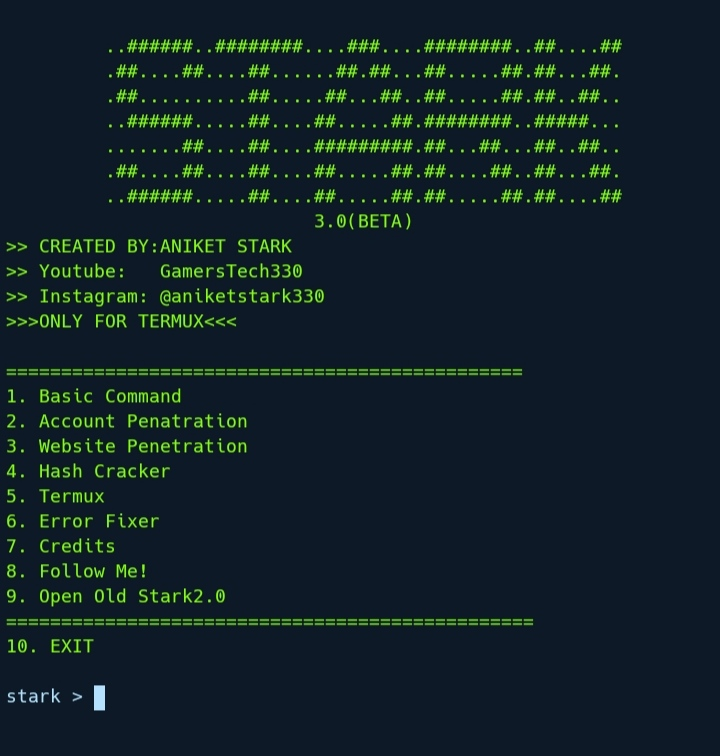
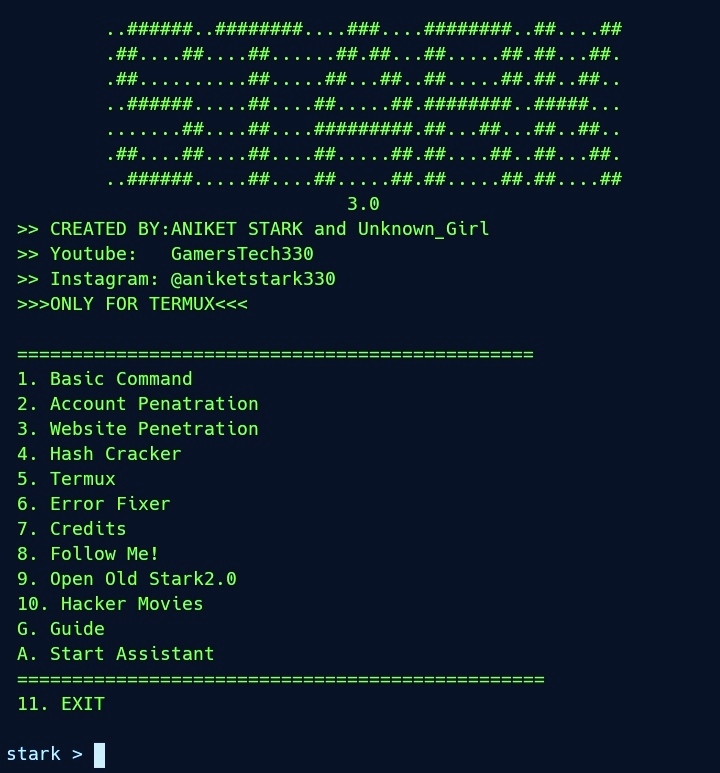
added Guide Section

Changed region(s): [[0.0, 0.0304, 0.8861, 1.0], [0.0, 0.9735, 0.0917, 1.0]]

diff --git a/core/starkmcore.py b/core/starkmcore.py
@@ -337,9 +337,10 @@ def Termux():
   3. ohmyzsh	     (new look for termux)
   4. TBomb           (SMS AND CALL SPAM)
   5. LazyMeta	     (Payload Maker Tool)
-  6. Install Nethunter Termux""","green"), colored("""
+  6. Install Nethunter Termux
+  7. Install/Update Termux Packages""","green"), colored("""
   ==========================================""","cyan"), colored("""
-  7. Back""","green"), colored("""
+  8. Back""","green"), colored("""
   ==========================================""","cyan")
  term = raw_input("term > ")
  if term == "1":
@@ -361,8 +362,11 @@ def Termux():
  elif term == "6":
   os.system("cd && wget -O install-nethunter-termux https://offs.ec/2MceZWr && chmod +x install-nethunter-termux")
   printslow(colored("Now Run Following Command\n cd && ./install-nethunter-termux",'green'))
-
-###################Error Fixer
+ elif term == "7":
+  os.system("apt install -y python python2 wget curl php python3 clang git curl zip pv tar termux-api")
+ elif term == "8":
+  reset()
+###################Error Fixe
 
 def EFixer():
  os.system("clear")

diff --git a/stark.py b/stark.py
@@ -35,6 +35,7 @@ def menu():
  9. Open Old Stark2.0
  10. Hacker Movies
  G. Guide
+ A. Start Assistant
  ================================================
  11. EXIT
  """, 'green'))
@@ -83,6 +84,8 @@ while loop:
           reset()
     elif stark == "G" or stark == "g":
         guidemain()
+    elif stark == "A" or stark == "a":
+	 os.system("echo This Is Under Built Me And Unknown_Girl404 Working On It | lolcat -a -d 80")
     else:
                   print  (colored("ERROR: WRONG COMMAND BRO.?", 'red'))
                   timeout(2)

diff --git a/core/aimcore.py b/core/aimcore.py
@@ -1,0 +1,7 @@
+import os
+import sys
+import time
+from termcolor import colored
+from core.starkmcore import *
+import random
+import urllib
